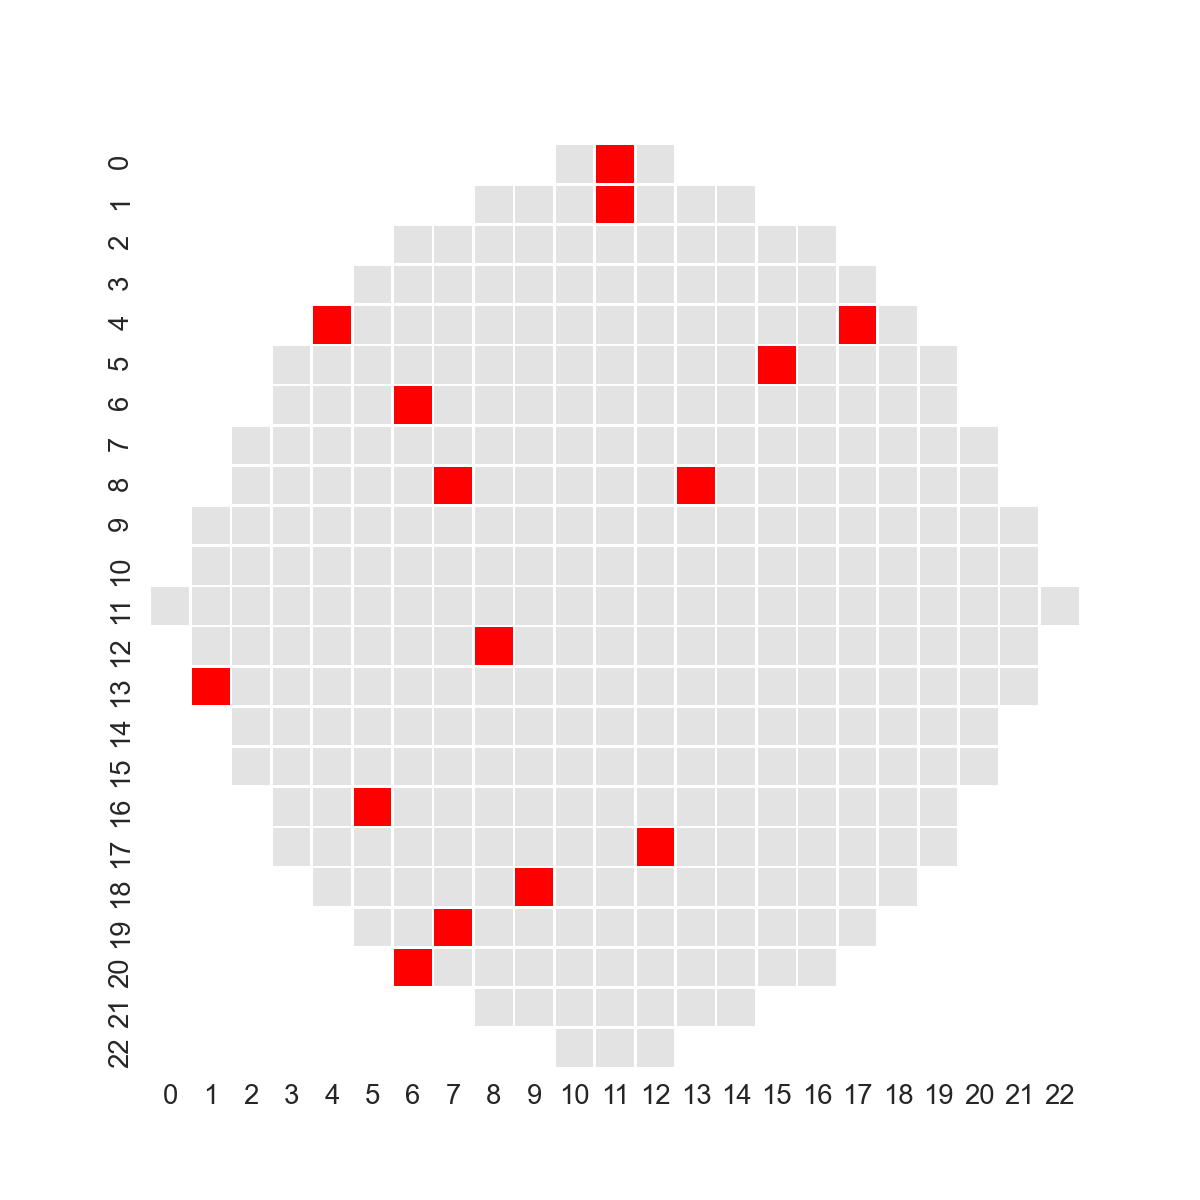
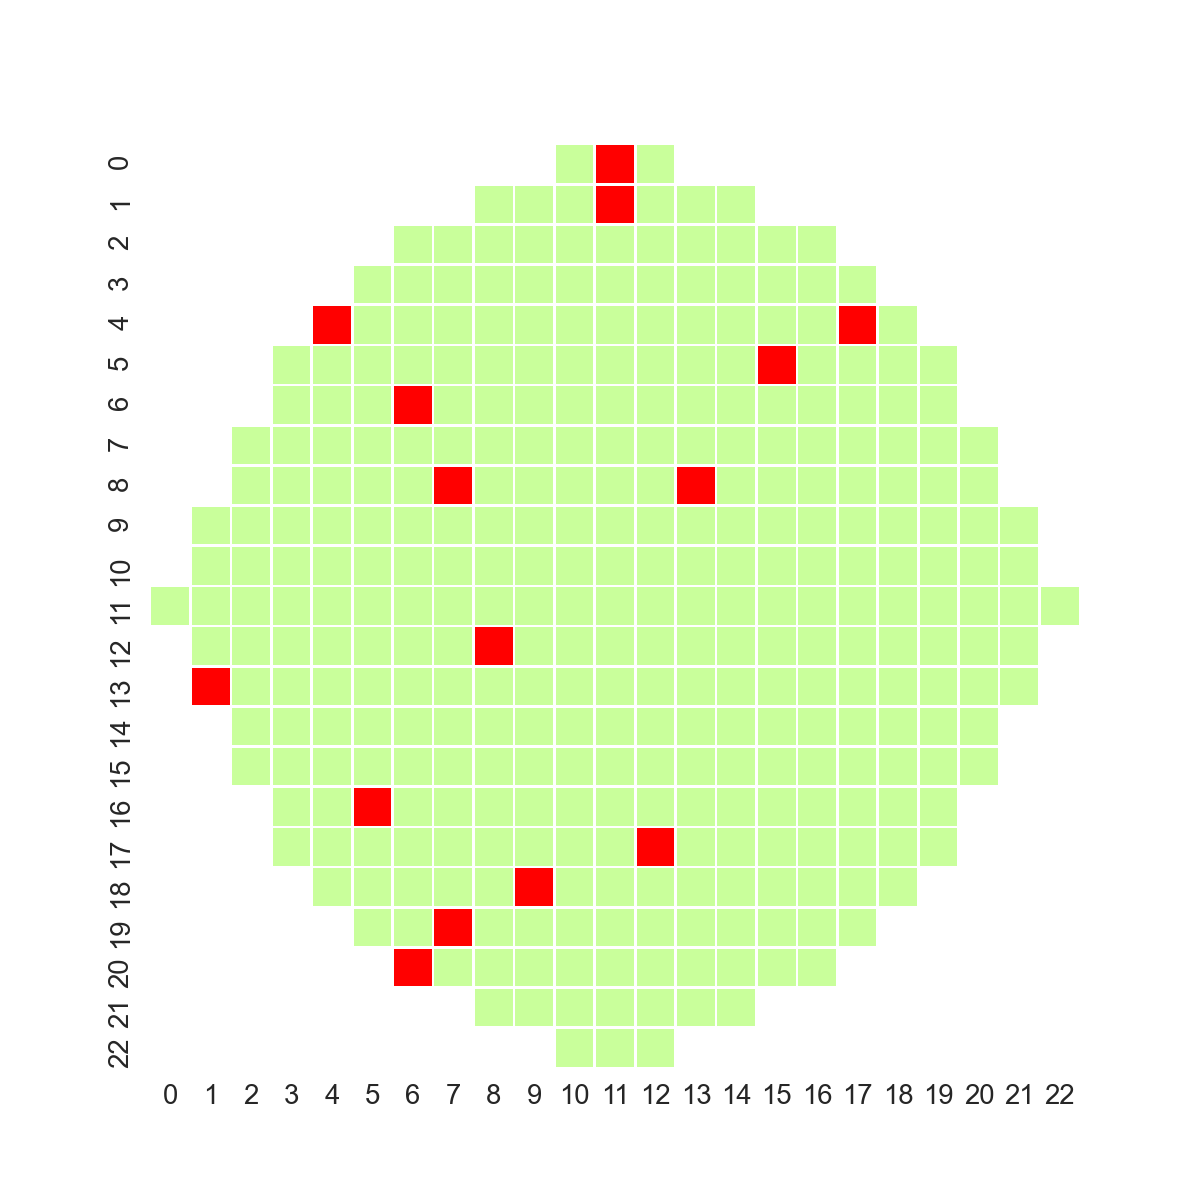
good die 調整為淺綠色

diff --git a/CreateMap.py b/CreateMap.py
@@ -18,7 +18,7 @@ def draw_oneclass(data):
     sns.set(font_scale=1.5)
     fig, ax = plt.subplots(figsize=(10,10))
     # cmap = sns.color_palette("Pastel2", 3)
-    cmap = mcolors.LinearSegmentedColormap.from_list("n",['white', '#e3e3e3', 'red'])
+    cmap = mcolors.LinearSegmentedColormap.from_list("n",['white', '#c9ff9b', 'red'])
     sns.heatmap(data,
                 center=1,
                 cmap=cmap,
@@ -37,7 +37,7 @@ def draw_mutipleclasses(data, filename):
     sns.set(font_scale=1.5)
     fig, ax = plt.subplots(figsize=(10,10))
     # cmap = sns.color_palette("Pastel2", 3)
-    cmap = mcolors.ListedColormap(['white', '#e3e3e3', 'red', '#4872db', '#6e19c2'])
+    cmap = mcolors.ListedColormap(['white', '#c9ff9b', 'red', '#4872db', '#6e19c2'])
     sns.heatmap(data,
                 center=2,
                 # cmap= 'RdBu',
